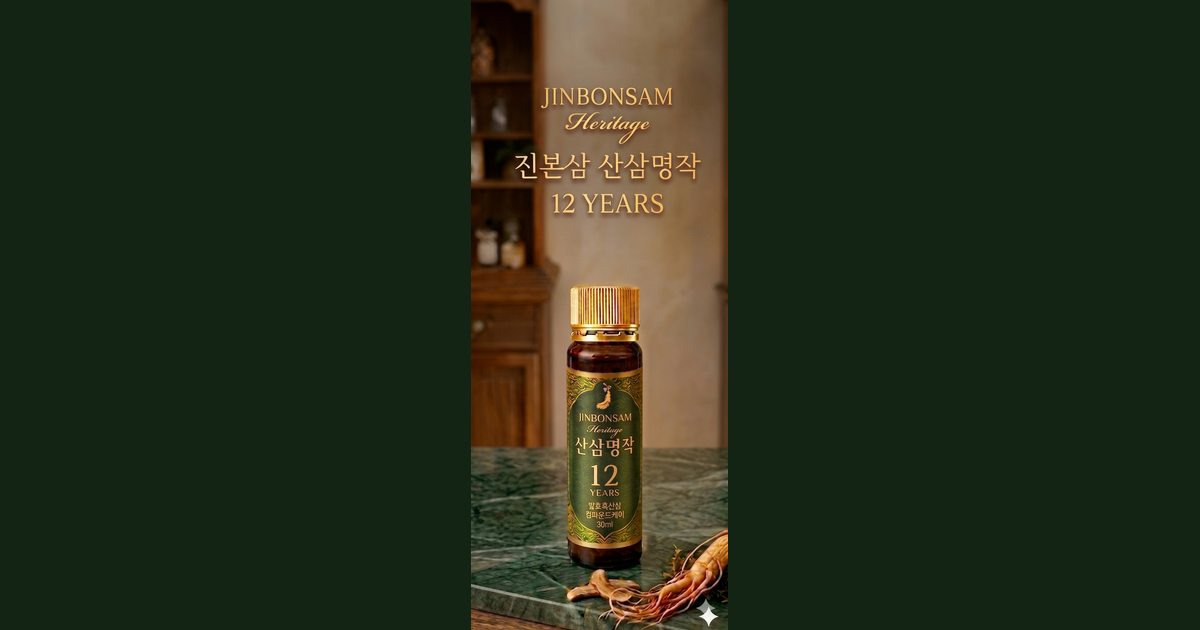
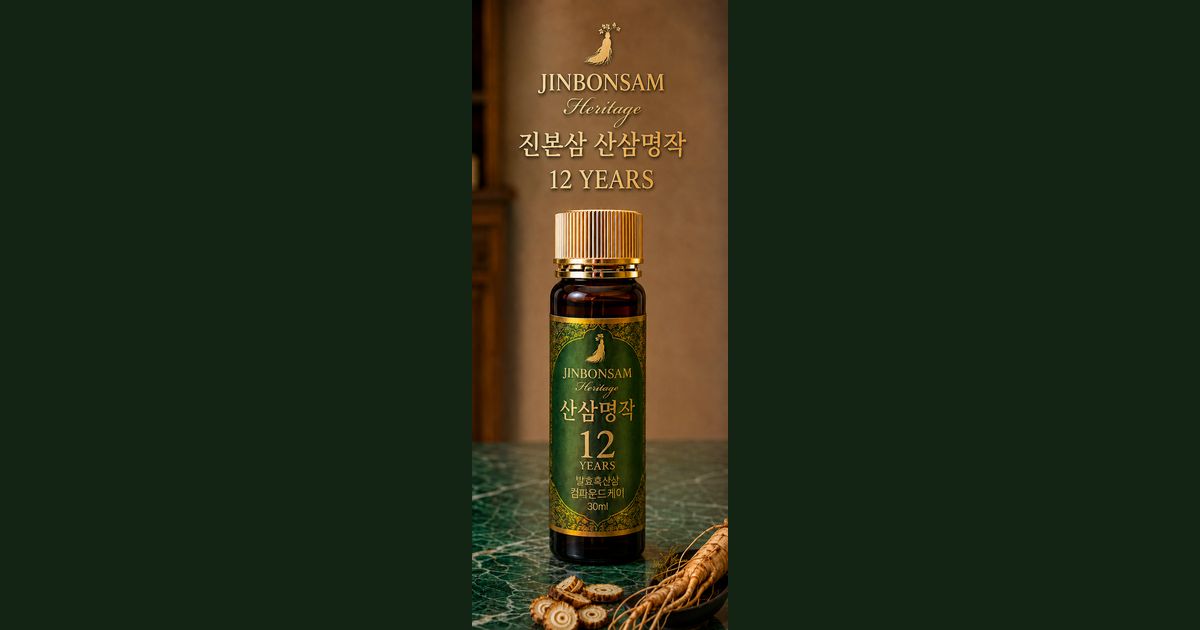
카카오 공유 이미지 교체: ChatGPT 이미지 → kakao-share.webp(799×1969), og:image도 갱신

Changed region(s): [[0.37, 0.0, 0.6167, 1.0], [0.37, 0.5127, 0.4008, 0.5429]]

diff --git a/index.html b/index.html
@@ -2031,9 +2031,9 @@ function shareKakao() {
       content: {
         title: '진본삼 산삼명작 샷 — 12년근 산양산삼',
         description: '배양근 0%. 12년근 산양산삼 7뿌리를 구증구포한 발효흑산삼 초미세분말. 하루 7,900원으로 시작하는 대한민국 활력 프로젝트.',
-        imageUrl: SITE_URL + 'images/Gemini_Generated_Image_sjni7jsjni7jsjni.webp',
-        imageWidth: 656,
-        imageHeight: 1611,
+        imageUrl: SITE_URL + 'images/kakao-share.webp',
+        imageWidth: 799,
+        imageHeight: 1969,
         link: { mobileWebUrl: SITE_URL, webUrl: SITE_URL }
       },
       buttons: [{

diff --git a/산양산삼_Landing_Page_fixed.html b/산양산삼_Landing_Page_fixed.html
@@ -2031,9 +2031,9 @@ function shareKakao() {
       content: {
         title: '진본삼 산삼명작 샷 — 12년근 산양산삼',
         description: '배양근 0%. 12년근 산양산삼 7뿌리를 구증구포한 발효흑산삼 초미세분말. 하루 7,900원으로 시작하는 대한민국 활력 프로젝트.',
-        imageUrl: SITE_URL + 'images/Gemini_Generated_Image_sjni7jsjni7jsjni.webp',
-        imageWidth: 656,
-        imageHeight: 1611,
+        imageUrl: SITE_URL + 'images/kakao-share.webp',
+        imageWidth: 799,
+        imageHeight: 1969,
         link: { mobileWebUrl: SITE_URL, webUrl: SITE_URL }
       },
       buttons: [{
